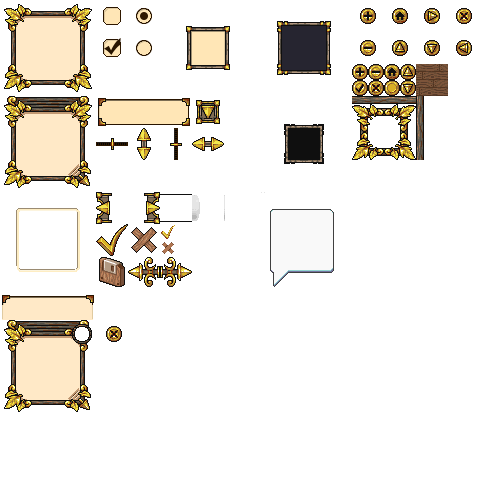
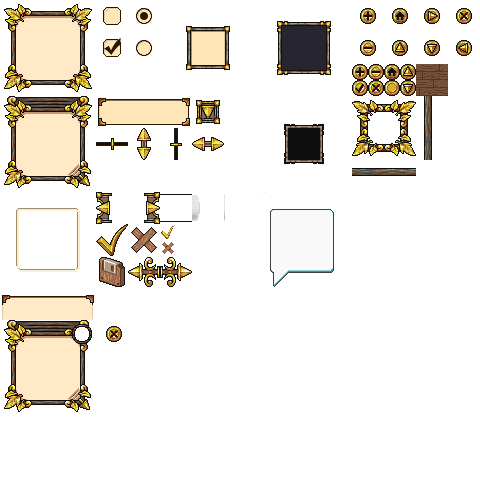
added tray to buttons

Changed region(s): [[0.7188, 0.1875, 0.9062, 0.375]]

diff --git a/DwarfCorp/DwarfCorpCore/Scripting/Player/Factions/Faction.cs b/DwarfCorp/DwarfCorpCore/Scripting/Player/Factions/Faction.cs
@@ -92,6 +92,39 @@ namespace DwarfCorp
                 new ResourceAmount(ResourceLibrary.ResourceType.Coal, (int) MathFunctions.Rand(1, 32))
             };
 
+            int numMeats = (int)MathFunctions.Rand(0, 20);
+
+            for (int i = 0; i < numMeats; i++)
+            {
+                int numOfThisMeat = (int)MathFunctions.Rand(1, 32);
+                string animal = TextGenerator.GenerateRandom("$animal");
+
+                bool ismeat = MathFunctions.RandEvent(0.5f);
+
+
+                if (ismeat)
+                {
+                    Resource meat = new Resource(ResourceLibrary.Resources[ResourceLibrary.ResourceType.Meat])
+                    {
+                        Type = animal + " Meat",
+                        ShortName = animal + " Meat"
+                    };
+                    ResourceLibrary.Add(meat);
+
+                    toReturn.Add(new ResourceAmount(meat, numOfThisMeat));
+                }
+                else
+                {
+                    Resource meat = new Resource(ResourceLibrary.Resources[ResourceLibrary.ResourceType.Bones])
+                    {
+                        Type = animal + " Bone",
+                        ShortName = animal + " Bone"
+                    };
+                    ResourceLibrary.Add(meat);
+
+                    toReturn.Add(new ResourceAmount(meat, numOfThisMeat));
+                }
+            }
 
             int numGemTypes = (int)MathFunctions.Rand(0, 3);
             List<Resource> gemTypes = ResourceLibrary.GetResourcesByTag(Resource.ResourceTags.Gem);
@@ -122,40 +155,6 @@ namespace DwarfCorp
                 toReturn.Add(new ResourceAmount(resource));
             }
 
-
-            int numMeats = (int) MathFunctions.Rand(0, 20);
-            
-            for (int i = 0; i < numMeats; i++)
-            {
-                int numOfThisMeat = (int) MathFunctions.Rand(1, 32);
-                string animal = TextGenerator.GenerateRandom("$animal");
-
-                bool ismeat = MathFunctions.RandEvent(0.5f);
-
-
-                if (ismeat)
-                {
-                    Resource meat = new Resource(ResourceLibrary.Resources[ResourceLibrary.ResourceType.Meat])
-                    {
-                        Type = animal + " Meat",
-                        ShortName = animal + " Meat"
-                    };
-                    ResourceLibrary.Add(meat);
-
-                    toReturn.Add(new ResourceAmount(meat, numOfThisMeat));
-                }
-                else
-                {
-                    Resource meat = new Resource(ResourceLibrary.Resources[ResourceLibrary.ResourceType.Bones])
-                    {
-                        Type = animal + " Bone",
-                        ShortName = animal + " Bone"
-                    };
-                    ResourceLibrary.Add(meat);
-
-                    toReturn.Add(new ResourceAmount(meat, numOfThisMeat));
-                }
-            }
 
             return toReturn;
         }

diff --git a/DwarfCorp/DwarfCorpCore/GUI/Skins/GUISkin.cs b/DwarfCorp/DwarfCorpCore/GUI/Skins/GUISkin.cs
@@ -175,7 +175,16 @@ namespace DwarfCorp
             SpeechBubbleLeft,
             SpeechBubbleRight,
             SpeechBubbleUpper,
-            SpeechBubbleLower
+            SpeechBubbleLower,
+
+            TrayUpperLeft,
+            TrayUpperRight,
+            TrayBottomLeft,
+            TrayBottomRight,
+            TrayCenterTop,
+            TrayCenterLeft,
+            TrayBackground
+
         }
 
         public Timer MouseTimer { get; set; }
@@ -351,6 +360,14 @@ namespace DwarfCorp
             Frames[Tile.SmallEx] = new Point(14, 0);
 
             Frames[Tile.ButtonFrame] = new Point(9, 4);
+            
+            Frames[Tile.TrayUpperLeft] = new Point(11, 3);
+            Frames[Tile.TrayUpperRight] = new Point(12, 3);
+            Frames[Tile.TrayBottomLeft] = new Point(11, 4);
+            Frames[Tile.TrayBottomRight] = new Point(12, 4);
+            Frames[Tile.TrayCenterTop] = new Point(11, 5);
+            Frames[Tile.TrayCenterLeft] = new Point(13, 3);
+            Frames[Tile.TrayBackground] = new Point(13, 2);
 
             MouseFrames[MousePointer.Pointer] = new Point(0, 0);
             MouseFrames[MousePointer.Dig] = new Point(1, 0);
@@ -381,6 +398,39 @@ namespace DwarfCorp
         public void RenderTile(Rectangle screenRect, Tile tile, SpriteBatch batch, Color tint)
         {
             batch.Draw(Texture, screenRect, GetSpecialFrame(tile).SourceRect, tint);
+        }
+
+        public void RenderTray(Rectangle rectbounds, SpriteBatch spriteBatch)
+        {
+            Rectangle rect = rectbounds;
+
+            for (int x = TileWidth/2; x < rectbounds.Width; x += TileWidth)
+            {
+                for (int y = TileHeight/2; y < rectbounds.Height; y += TileHeight)
+                {
+                    spriteBatch.Draw(Texture, new Rectangle(x + rect.X, y + rect.Y, TileWidth, TileHeight), GetSourceRect(Tile.TrayBackground), Color.White);
+                }
+            }
+
+
+            spriteBatch.Draw(Texture, new Rectangle(rect.X, rect.Y, TileWidth, TileHeight), GetSourceRect(Tile.TrayUpperLeft), Color.White);
+
+            Rectangle leftBounds = GetSourceRect(Tile.TrayCenterLeft);
+            leftBounds.Height *= 2;
+
+            for (int y = TileHeight; y < rect.Height; y += TileHeight)
+            {
+                spriteBatch.Draw(Texture, new Rectangle(rect.X, rect.Y + y, leftBounds.Width, leftBounds.Height), leftBounds, Color.White);
+            }
+
+            Rectangle topBounds = GetSourceRect(Tile.TrayCenterTop);
+            topBounds.Width *= 2;
+
+            for (int x = TileWidth; x < rect.Width; x += TileWidth)
+            {
+                spriteBatch.Draw(Texture, new Rectangle(rect.X + x, rect.Y, topBounds.Width, topBounds.Height), topBounds, Color.White);
+            }
+
         }
 
         public void RenderPanel(Rectangle rectbounds, SpriteBatch spriteBatch)

diff --git a/DwarfCorp/DwarfCorpCore/GUI/Components/Complex/MasterControls.cs b/DwarfCorp/DwarfCorpCore/GUI/Components/Complex/MasterControls.cs
@@ -114,40 +114,6 @@ namespace DwarfCorp
             return button;
         }
 
-        /*
-        private void buildBox_OnSelectionModified(string arg)
-        {
-            if(arg.Contains("Wall"))
-            {
-                string voxType = BuildPanel.CurrentWallType;
-                if (string.IsNullOrEmpty(voxType)) return;
-
-                Master.Faction.WallBuilder.CurrentVoxelType = VoxelLibrary.GetVoxelType(voxType);
-                Master.VoxSelector.SelectionType = VoxelSelectionType.SelectEmpty;
-                Master.Faction.RoomBuilder.CurrentRoomData = null;
-                Master.Faction.CraftBuilder.IsEnabled = false;
-            }
-            else if (arg.Contains("Craft"))
-            {
-                CraftLibrary.CraftItemType itemType = BuildPanel.CurrentCraftType;
-                Master.VoxSelector.SelectionType = VoxelSelectionType.SelectEmpty;
-                Master.Faction.RoomBuilder.CurrentRoomData = null;
-                Master.Faction.WallBuilder.CurrentVoxelType = null;
-                Master.Faction.CraftBuilder.CurrentCraftType = itemType;
-                Master.Faction.CraftBuilder.IsEnabled = true;
-            }
-            else
-            {
-                if (string.IsNullOrEmpty(arg)) return;
-
-                Master.Faction.RoomBuilder.CurrentRoomData = RoomLibrary.GetData(arg);
-                Master.VoxSelector.SelectionType = VoxelSelectionType.SelectFilled;
-                Master.Faction.WallBuilder.CurrentVoxelType = null;
-                Master.Faction.CraftBuilder.IsEnabled = false;
-            }
-        }
-         */
-
         public void ButtonClicked(Button sender)
         {
             sender.IsToggled = true;
@@ -171,6 +137,23 @@ namespace DwarfCorp
                     pair.Value.IsToggled = false;
                 }
             }
+        }
+
+        public override void Render(DwarfTime time, SpriteBatch batch)
+        {
+            Rectangle rect = GlobalBounds;
+            rect.Inflate(24, 24);
+            GUI.Skin.RenderTray(rect, batch);
+
+            foreach (KeyValuePair<GameMaster.ToolMode, Button> pair in ToolButtons)
+            {
+                if (!pair.Value.IsVisible)
+                {
+                    GUI.Skin.RenderButtonFrame(pair.Value.GetImageBounds(), batch);
+                }
+            }
+
+            base.Render(time, batch);
         }
 
         public bool SelectedUnitsHaveCapability(GameMaster.ToolMode tool)

diff --git a/DwarfCorp/DwarfCorpCore/GUI/Components/Complex/ItemSelector.cs b/DwarfCorp/DwarfCorpCore/GUI/Components/Complex/ItemSelector.cs
@@ -180,7 +180,7 @@ namespace DwarfCorp
 
             layout.UpdateSizes();
             layout.SetComponentPosition(ScrollArea, 0, 0, 1, 9);
-            Layout = new GridLayout(gui, ScrollArea, 14, 5);
+            Layout = new GridLayout(gui, ScrollArea, 14, Columns.Count);
             OnItemChanged += ItemSelector_OnItemChanged;
             OnItemRemoved += ItemSelector_OnItemRemoved;
             OnItemAdded += ItemSelector_OnItemAdded;
@@ -485,8 +485,7 @@ namespace DwarfCorp
 
             int rows = Math.Max(FilteredItems.Count, 6);
             ScrollArea.RemoveChild(Layout);
-            ScrollArea.ResetScroll();
-            Layout = new GridLayout(GUI, ScrollArea, rows + 1, 6)
+            Layout = new GridLayout(GUI, ScrollArea, rows + 1, Columns.Count)
             {
                 LocalBounds = new Rectangle(0, 0, Math.Max(ScrollArea.LocalBounds.Width, 512), rows * 64),
                 WidthSizeMode = SizeMode.Fixed,

diff --git a/DwarfCorp/DwarfCorpCore/GameStates/PlayState.cs b/DwarfCorp/DwarfCorpCore/GameStates/PlayState.cs
@@ -785,8 +785,8 @@ namespace DwarfCorp.GameStates
             GUI.RootComponent.AddChild(Master.Debugger.MainPanel);
             layout.AddChild(Master.ToolBar);
             Master.ToolBar.Parent = layout;
-            Master.ToolBar.LocalBounds = new Rectangle(0, 0, 450, 68);
-            Master.ToolBar.TriggerMouseOver = false;
+            Master.ToolBar.LocalBounds = new Rectangle(0, 0, 432, 48);
+
             layout.Add(Master.ToolBar, AlignLayout.Alignment.Right, AlignLayout.Alignment.Bottom, Vector2.Zero);
             //layout.SetComponentPosition(Master.ToolBar, 7, 10, 4, 1);
 

diff --git a/DwarfCorp/DwarfCorpCore/GUI/Components/Complex/GoodsPanel.cs b/DwarfCorp/DwarfCorpCore/GUI/Components/Complex/GoodsPanel.cs
@@ -542,7 +542,7 @@ namespace DwarfCorp
                     ItemSelector.Column.Image,
                     ItemSelector.Column.Name,
                     ItemSelector.Column.Amount,
-                    ItemSelector.Column.TotalPrice
+                    ItemSelector.Column.PricePerItem
                 },
                 NoItemsMessage = "No items selected",
                 ToolTip = "Click items to offer them for trade.",
